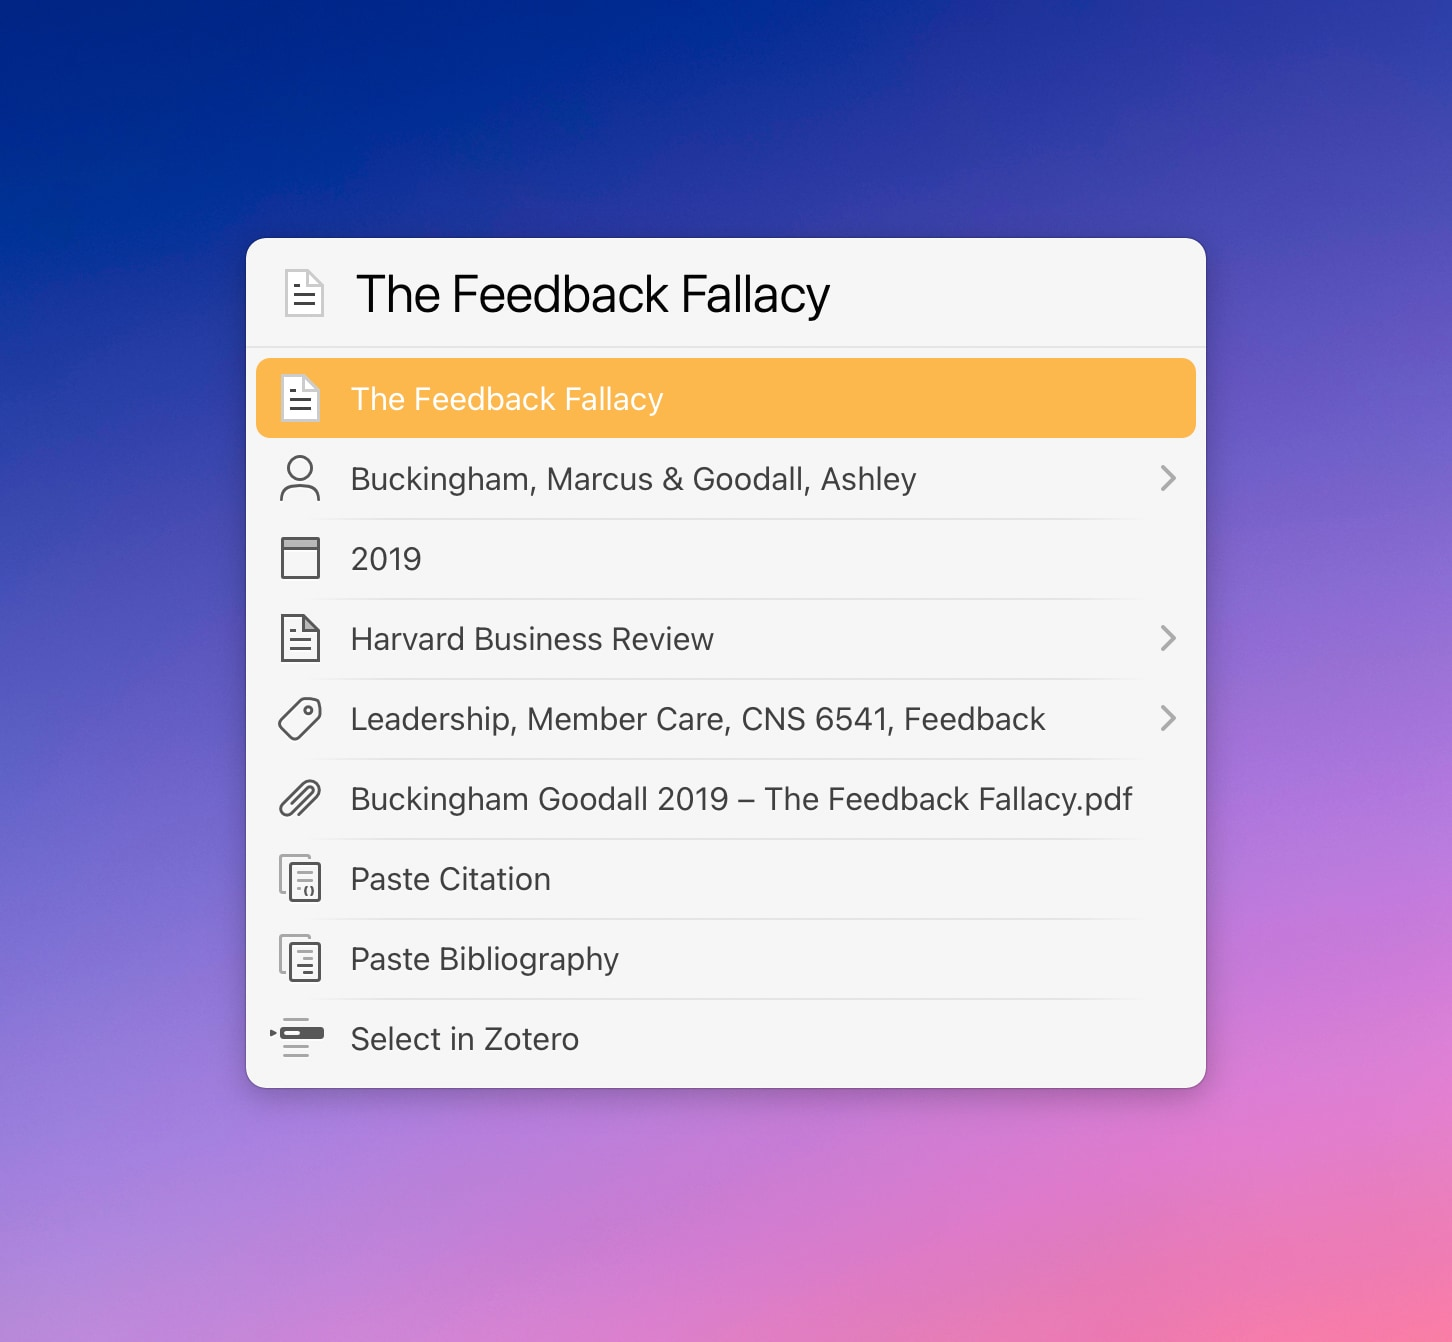
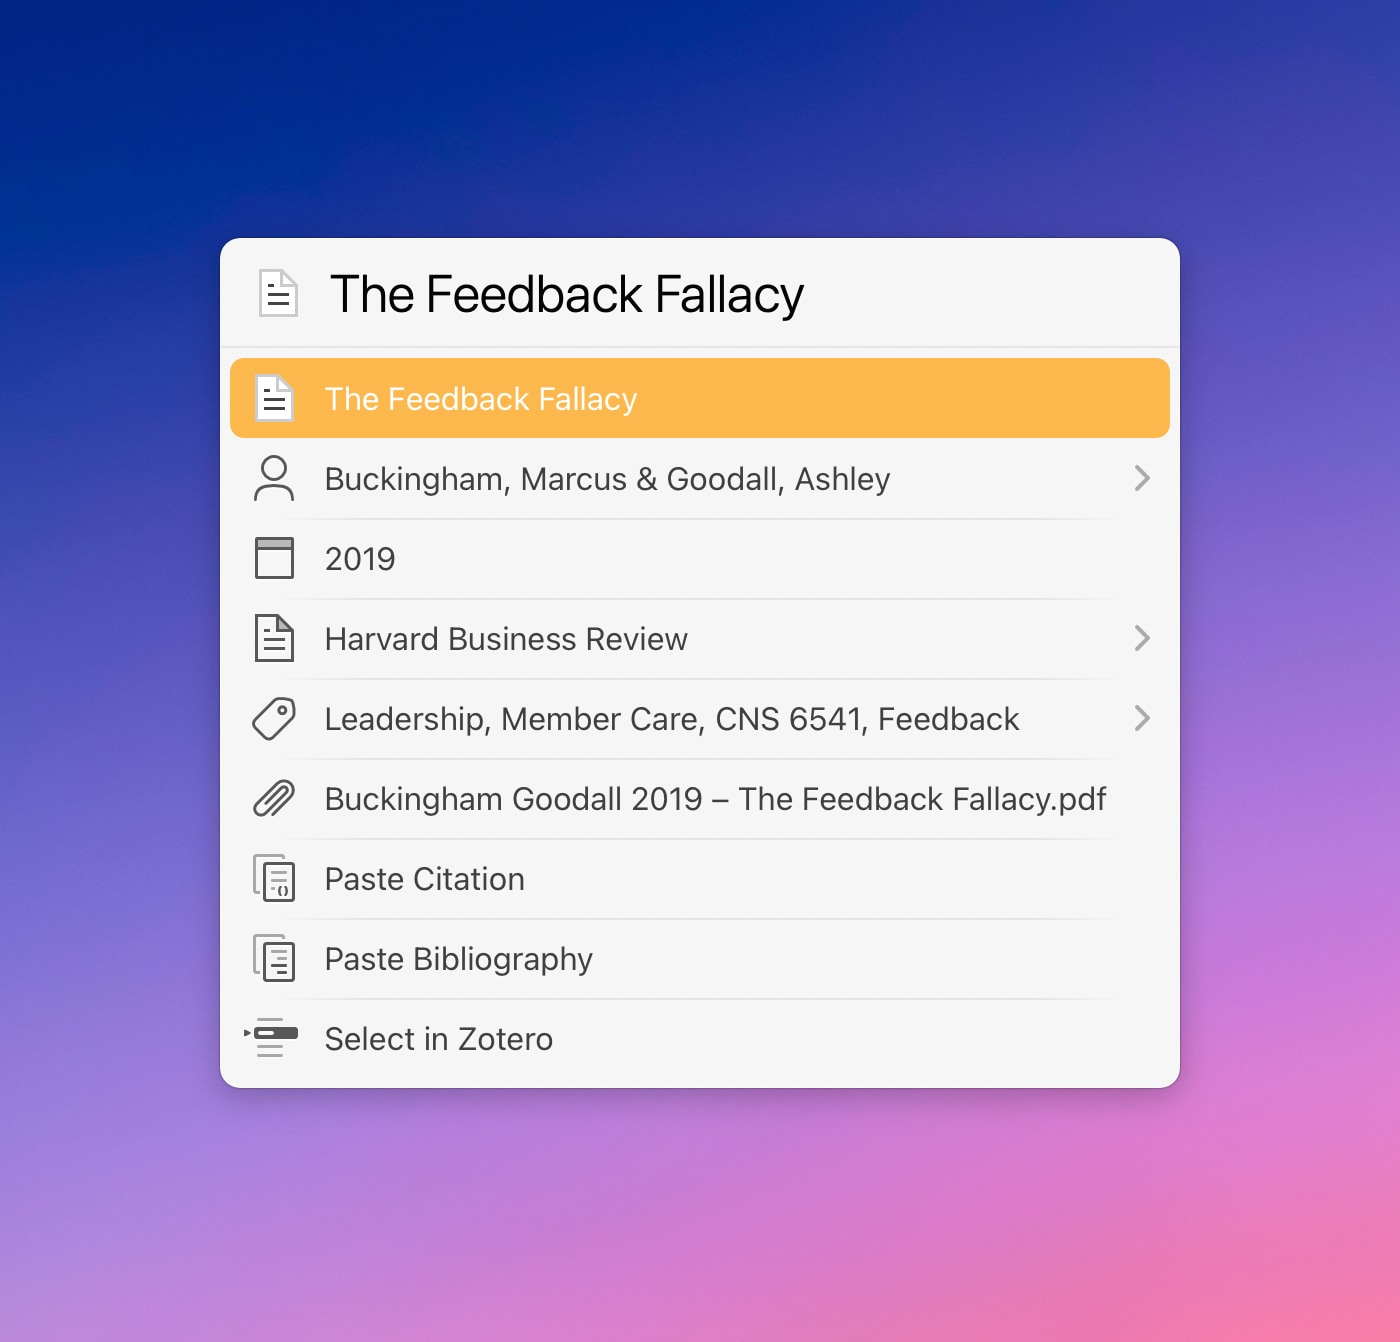
Update images and resize in README for Zotero Actions
Replaced 01.jpg, 02.jpg, and 03.jpg with updated versions and adjusted their display width from 806px to 700px in the README for improved layout and consistency.

diff --git a/Zotero-Actions/README.md b/Zotero-Actions/README.md
@@ -6,7 +6,7 @@ Search, browse, and act on items from your local [Zotero](https://www.zotero.org
 
 ## Search 
 
-<img src="01.jpg" width="806"/> 
+<img src="01.jpg" width="700"/> 
 
 As you begin your search, helpful suggestions will appear, including creator names, tags, and titles.
 
@@ -19,7 +19,7 @@ You can also directly search both the database and your local attachments with `
 
 ## Browse
 
-<img src="02.jpg" width="806"/> 
+<img src="02.jpg" width="700"/> 
 
 If you press `enter` instead of `space`, you can [browse your database](https://ptujec.github.io/the-unique-power-of-browsing-in-launchbar/) by creators, tags, collections, or all items. 
 
@@ -27,13 +27,13 @@ Additionally, you have quick access to your three most recently used items.
 
 ## Details & Actions
 
-<img src="03.jpg" width="806"/> 
+<img src="03.jpg" width="700"/> 
 
 If you hit `enter` on a particular item, you can see more details such as tags, publications, links, or attachments. 
 
 Many of the details also offer further functionality. For instance, you can quickly look inside an attached PDF.
 
-<img src="04.jpg" width="806"/>  
+<img src="04.jpg" width="700"/>  
 
 Here is a list of possible actions: 
 
